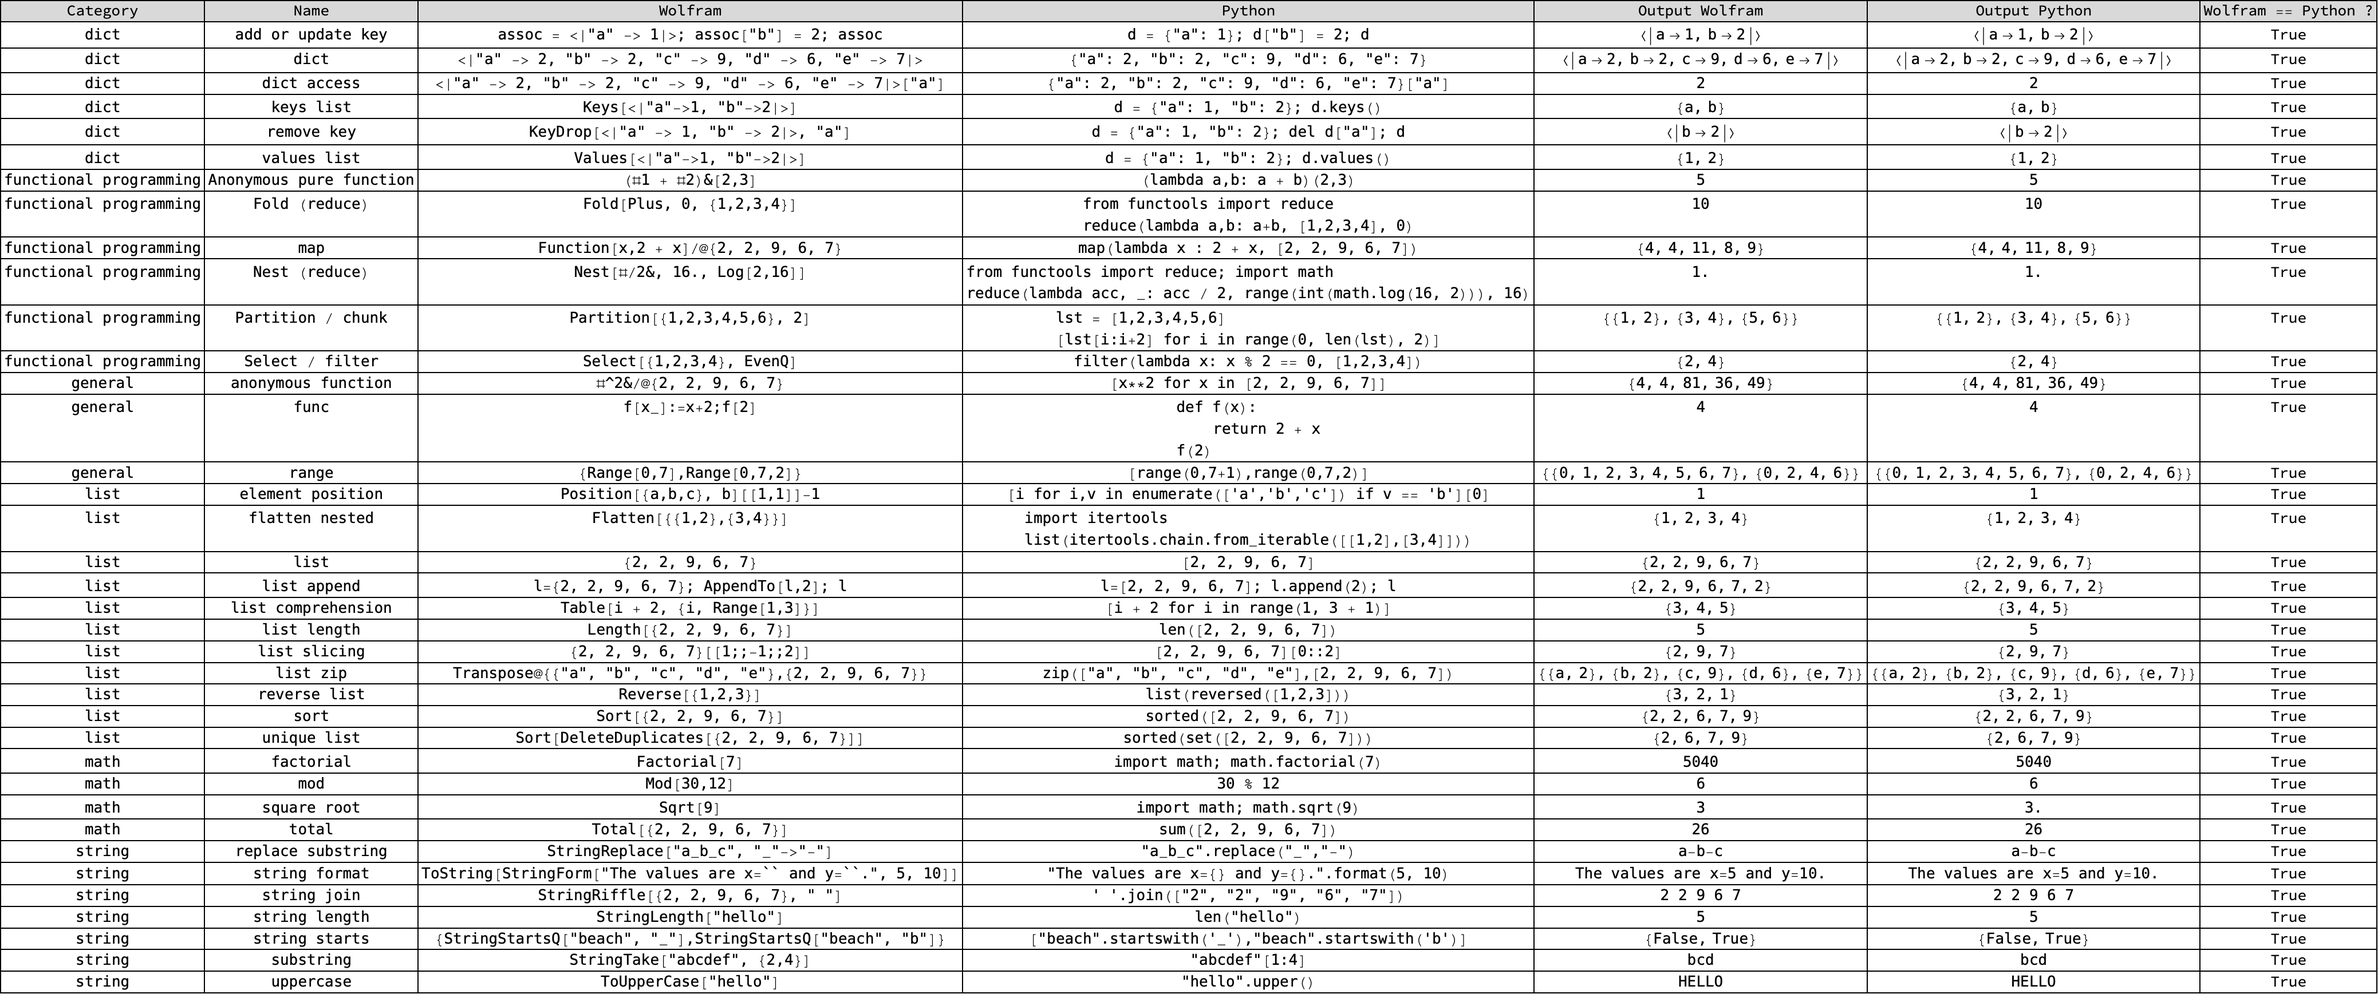
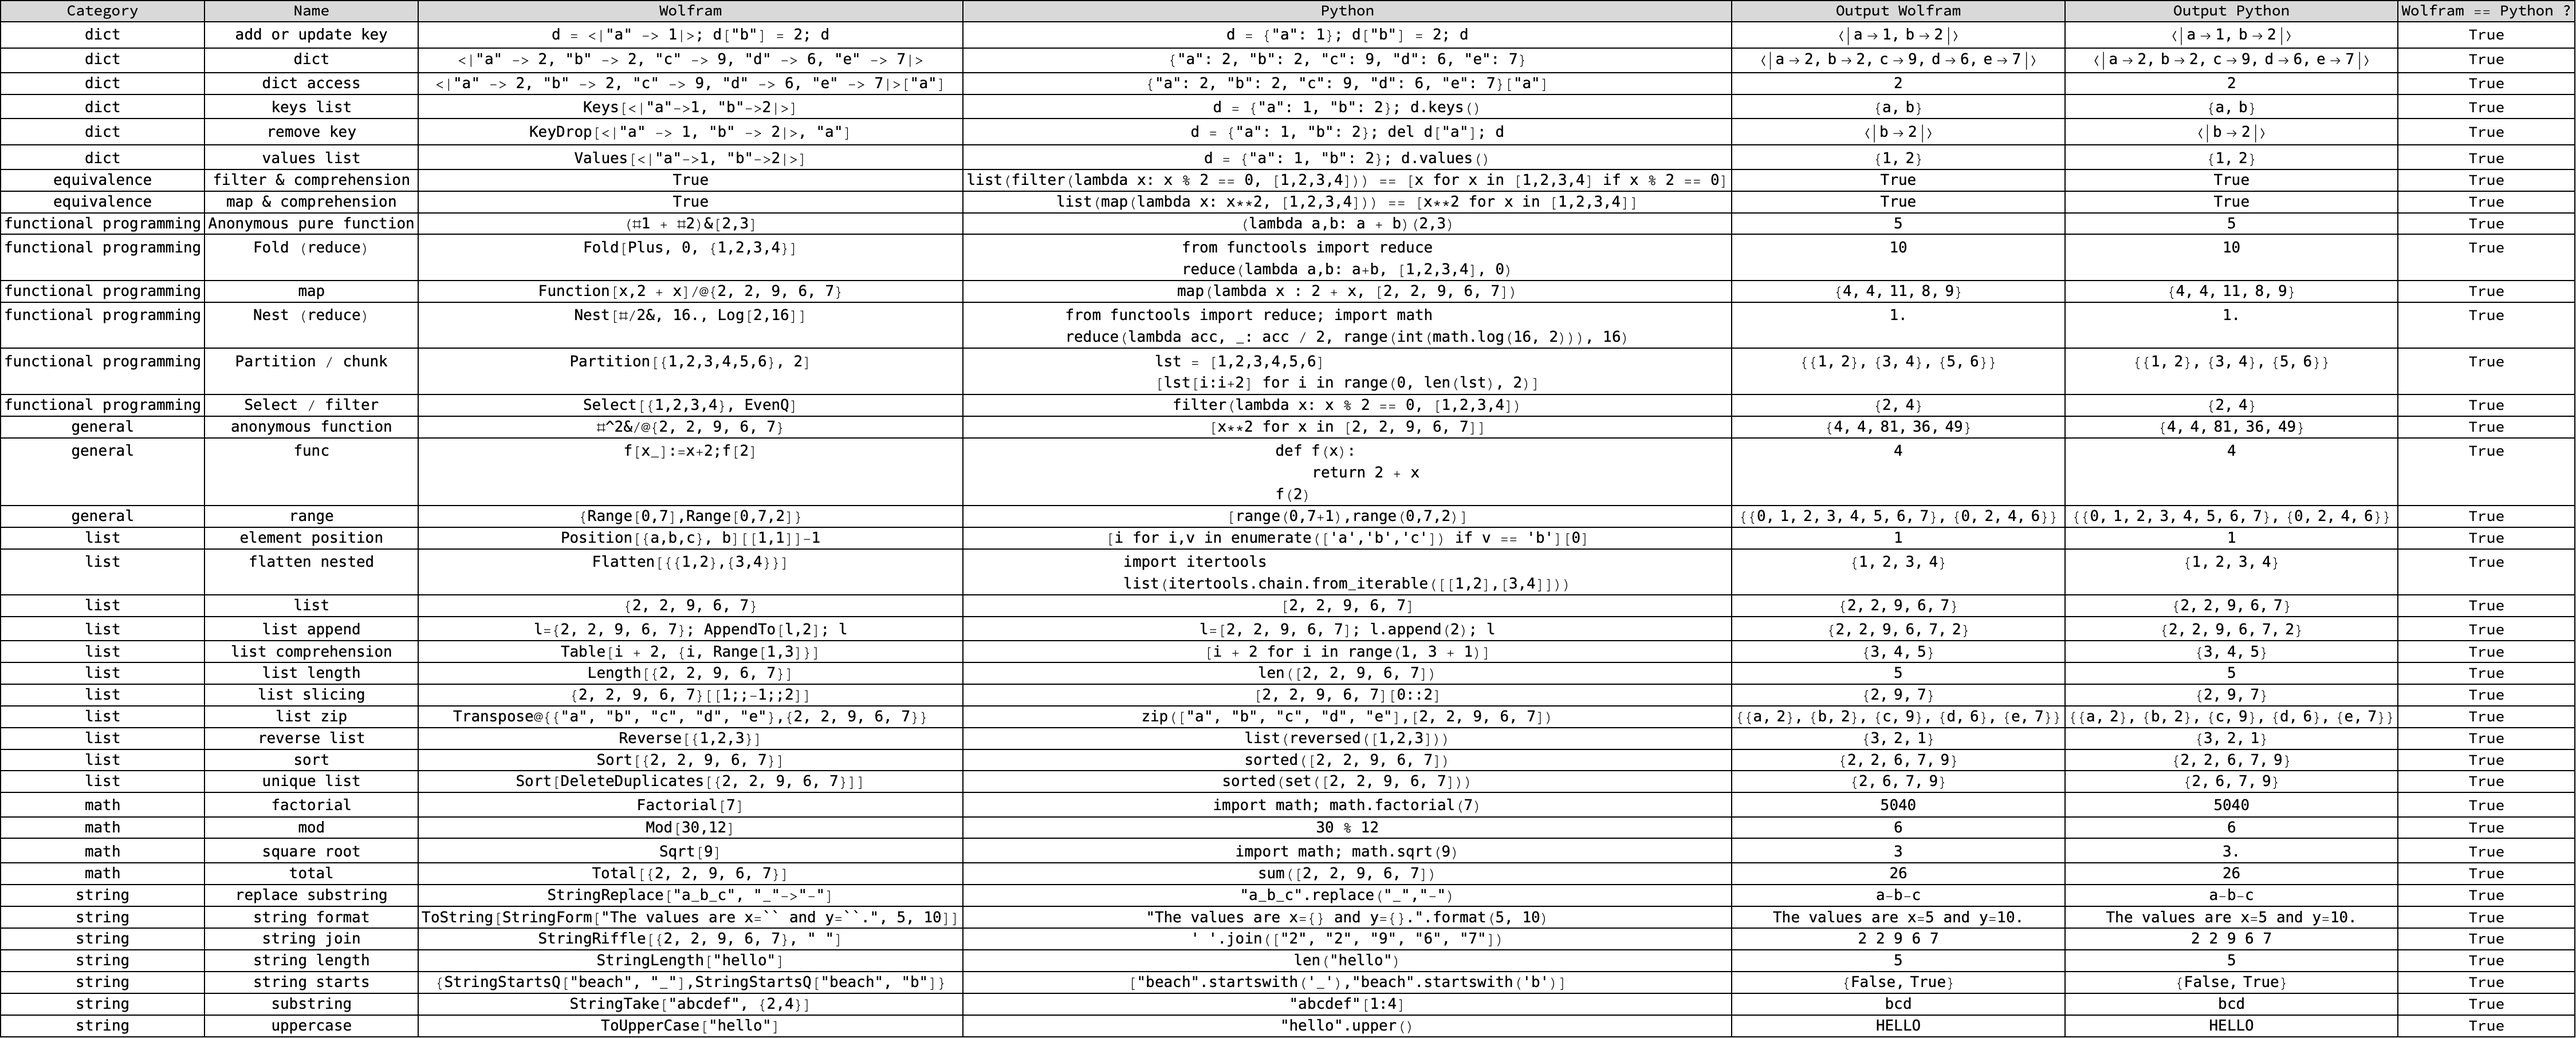
New Tests

Changed region(s): [[0.0, 0.0, 1.0, 1.0]]

diff --git a/README.md b/README.md
@@ -16,12 +16,19 @@ range|<pre>{Range[0,7],Range[0,7,2]}</pre>|<pre>[range(0,7+1),range(0,7,2)]</pre
 
  Name | Wolfram | Python
 :---:|:---|:---
-add or update key|<pre>assoc = <\|"a" -> 1\|>; assoc["b"] = 2; assoc</pre>|<pre>d = {"a": 1}; d["b"] = 2; d</pre>
+add or update key|<pre>d = <\|"a" -> 1\|>; d["b"] = 2; d</pre>|<pre>d = {"a": 1}; d["b"] = 2; d</pre>
 dict|<pre><\|"a" -> 2, "b" -> 2, "c" -> 9, "d" -> 6, "e" -> 7\|></pre>|<pre>{"a": 2, "b": 2, "c": 9, "d": 6, "e": 7}</pre>
 dict access|<pre><\|"a" -> 2, "b" -> 2, "c" -> 9, "d" -> 6, "e" -> 7\|>["a"]</pre>|<pre>{"a": 2, "b": 2, "c": 9, "d": 6, "e": 7}["a"]</pre>
 keys list|<pre>Keys[<\|"a"->1, "b"->2\|>]</pre>|<pre>d = {"a": 1, "b": 2}; d.keys()</pre>
 remove key|<pre>KeyDrop[<\|"a" -> 1, "b" -> 2\|>, "a"]</pre>|<pre>d = {"a": 1, "b": 2}; del d["a"]; d</pre>
 values list|<pre>Values[<\|"a"->1, "b"->2\|>]</pre>|<pre>d = {"a": 1, "b": 2}; d.values()</pre>
+
+## Equivalence
+
+ Name | Wolfram | Python
+:---:|:---|:---
+filter & comprehension|<pre>True</pre>|<pre>list(filter(lambda x: x % 2 == 0, [1,2,3,4])) == [x for x in [1,2,3,4] if x % 2 == 0]</pre>
+map & comprehension|<pre>True</pre>|<pre>list(map(lambda x: x**2, [1,2,3,4])) == [x**2 for x in [1,2,3,4]]</pre>
 
 ## Functional programming
 
